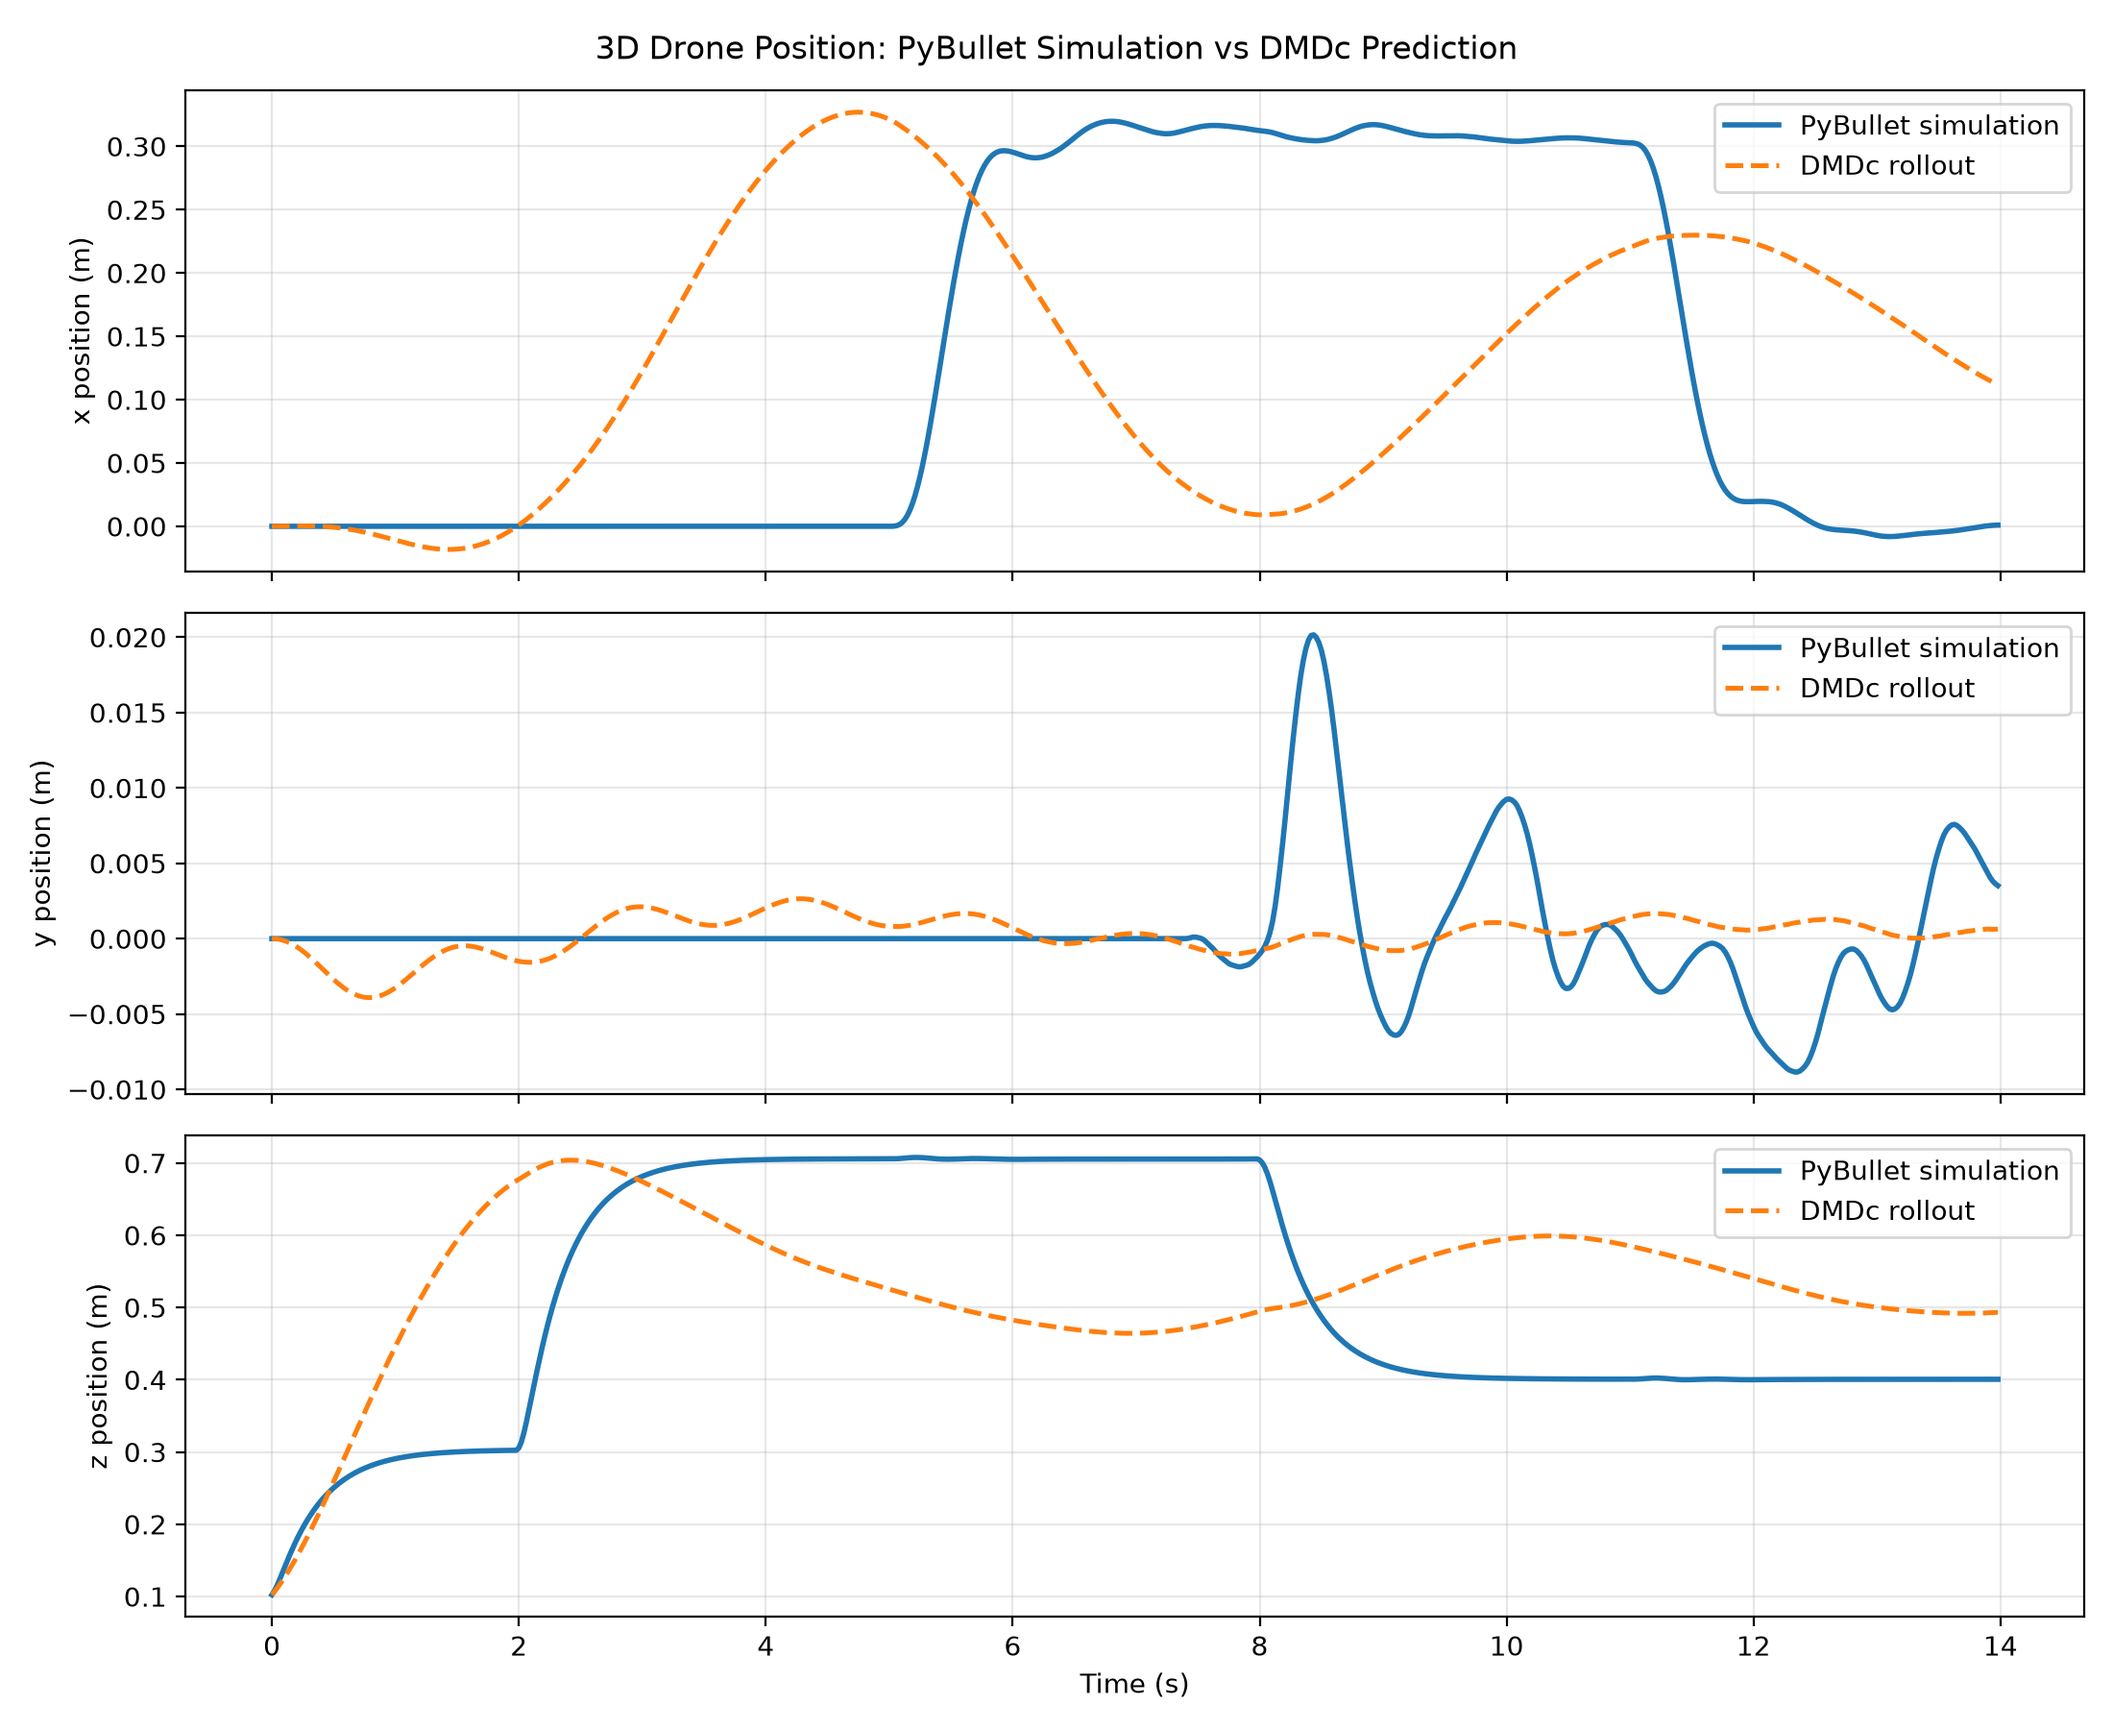
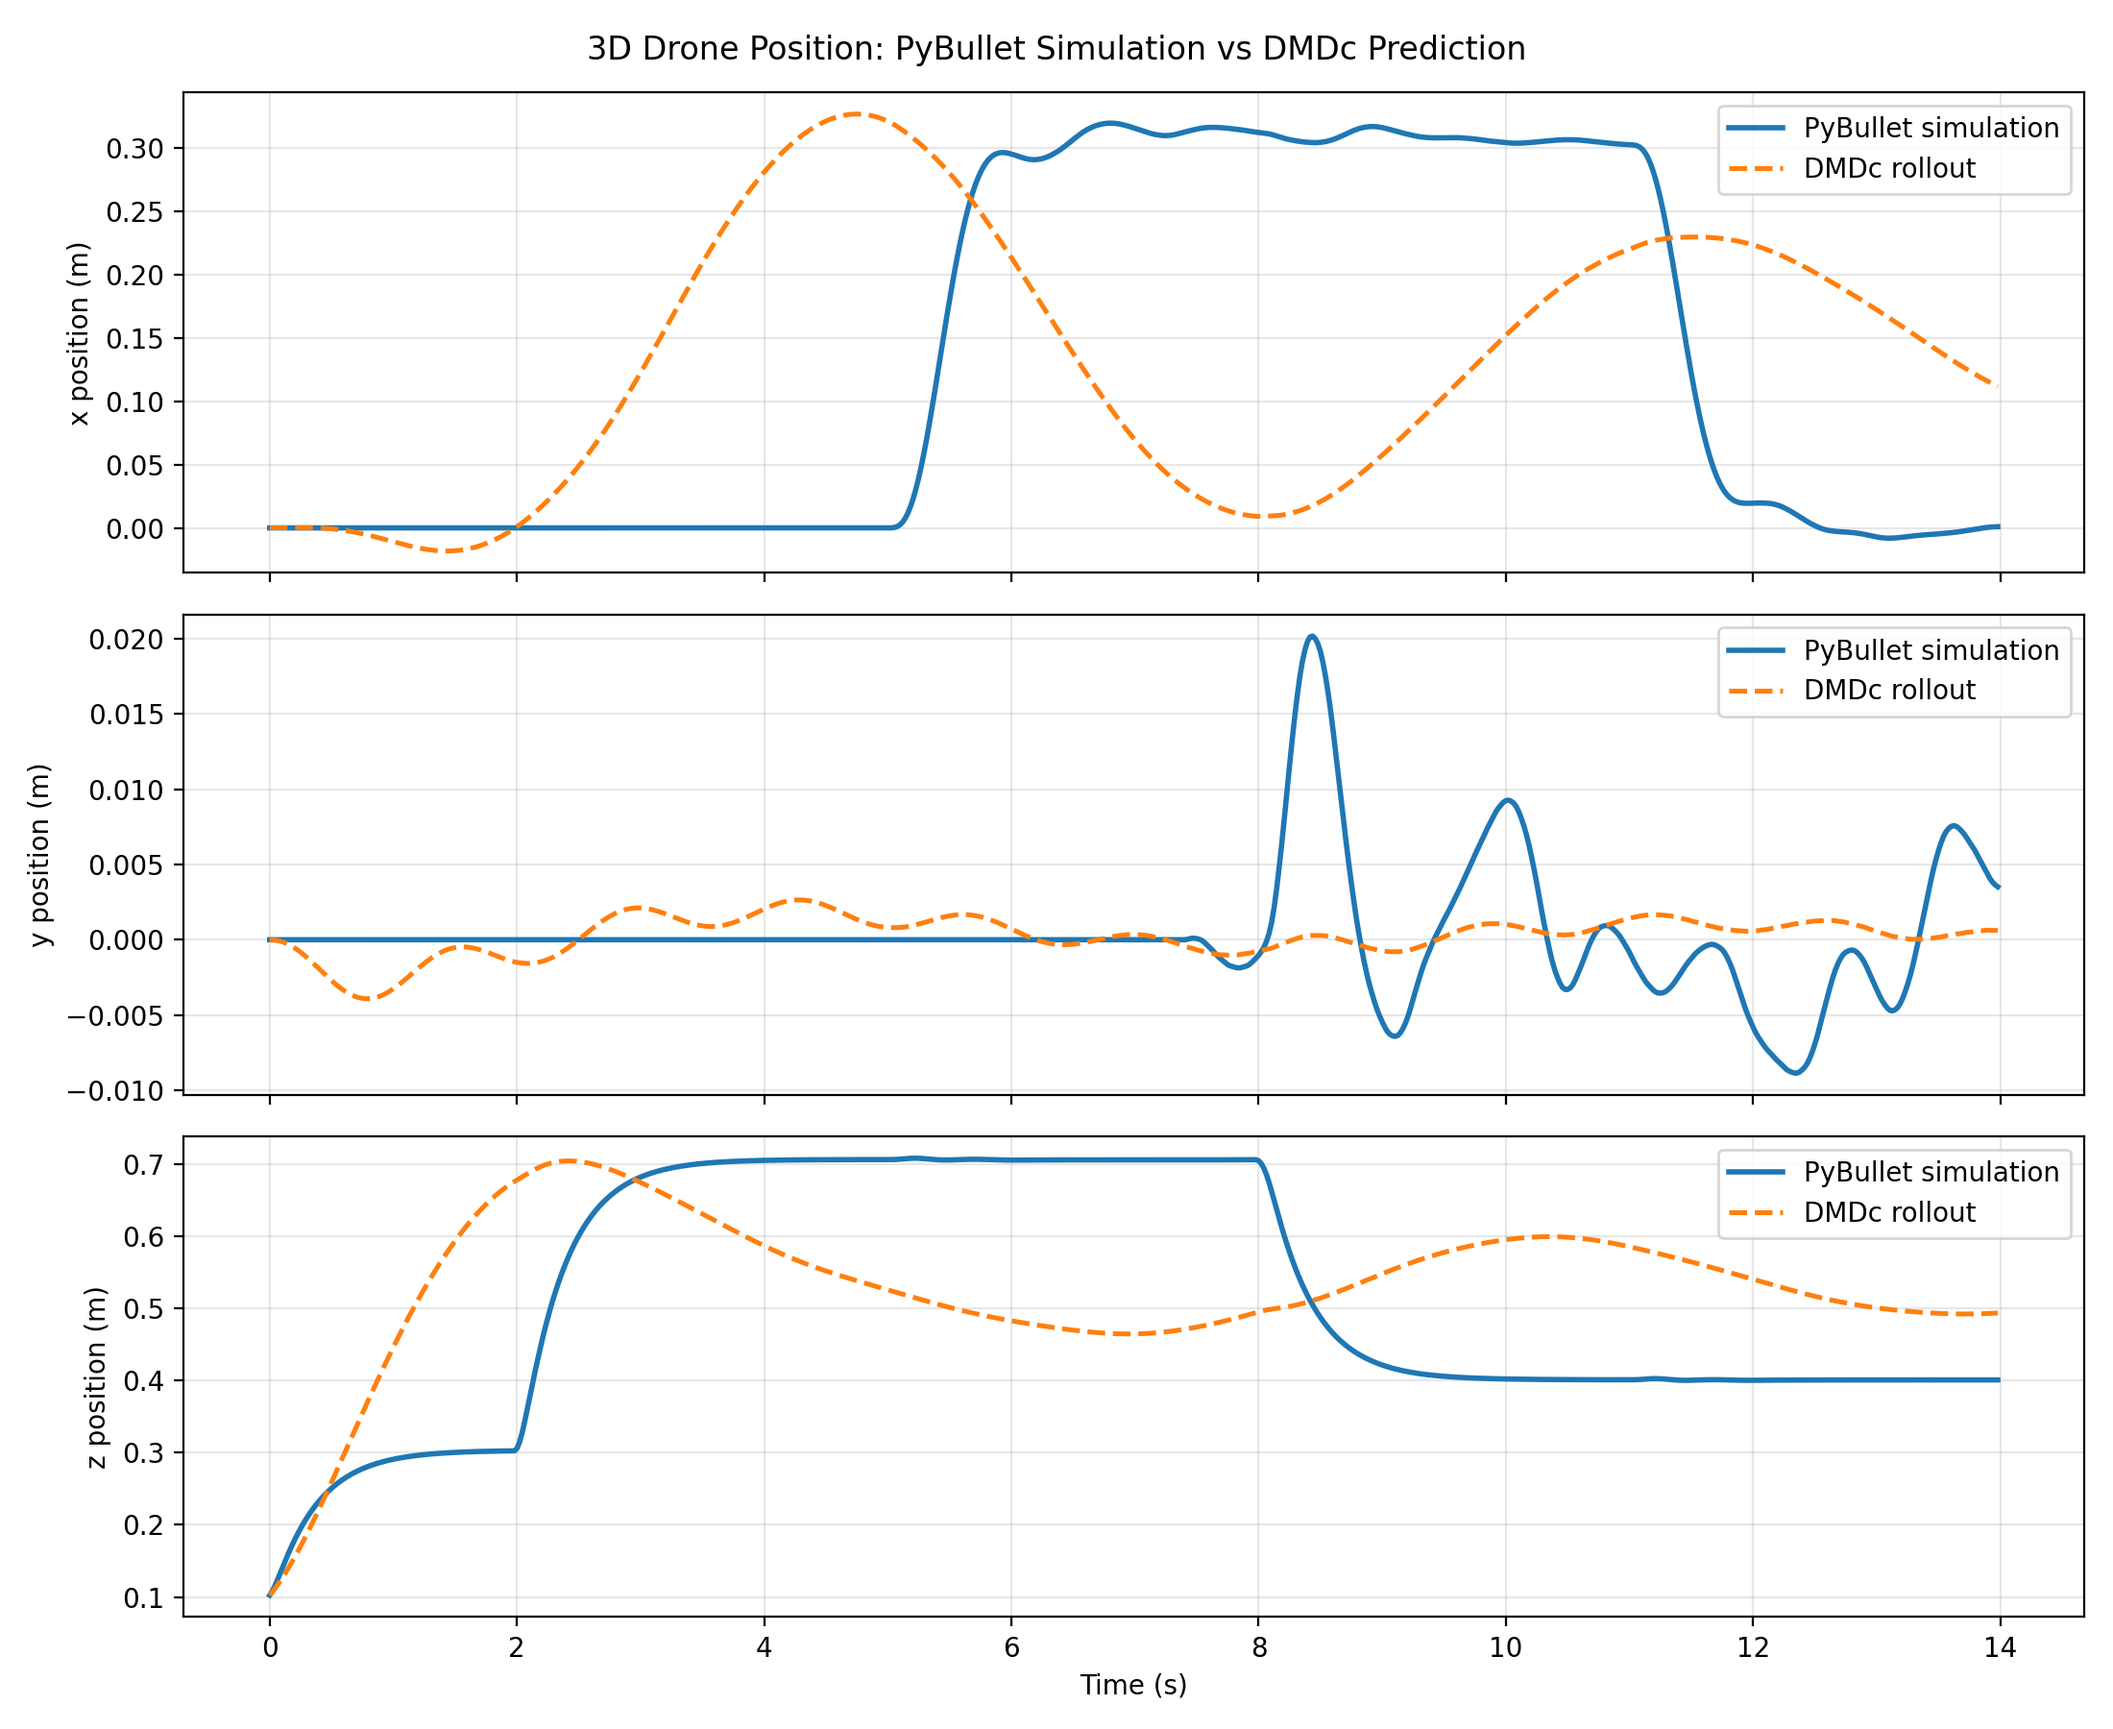
feat: add circular PID flight trajectory and update DMDc results

diff --git a/project/run_pid_dmdc.py b/project/run_pid_dmdc.py
@@ -10,28 +10,64 @@ from gym_pybullet_drones.utils.enums import DroneModel, Physics
 from gym_pybullet_drones.utils.utils import sync
 
 
-def reference_position(t):
-    """Creates deliberate position steps so motor inputs vary for DMDc."""
-    if t < 2.0:
-        return np.array([0.0, 0.0, 0.30])
-    elif t < 5.0:
-        return np.array([0.0, 0.0, 0.70])
-    elif t < 8.0:
-        return np.array([0.30, 0.0, 0.70])
-    elif t < 11.0:
-        return np.array([0.30, 0.0, 0.40])
+def reference_trajectory(t):
+    """
+    Generates a takeoff -> circular flight -> hover reference trajectory.
+
+    Returns:
+        target_pos : desired [x, y, z] position in metres
+        target_vel : desired [vx, vy, vz] velocity in m/s
+        target_rpy : desired [roll, pitch, yaw] attitude in radians
+    """
+    takeoff_end = 3.0
+    circle_end = 17.0
+
+    radius = 0.35
+    altitude = 0.70
+    omega = 0.35
+
+    if t < takeoff_end:
+        # Hold above the origin while the drone takes off and stabilizes.
+        target_pos = np.array([0.0, 0.0, altitude])
+        target_vel = np.zeros(3)
+        target_rpy = np.zeros(3)
+
+    elif t < circle_end:
+        # Time measured from the beginning of the circular segment.
+        circle_t = t - takeoff_end
+
+        target_pos = np.array([
+            radius * np.cos(omega * circle_t),
+            radius * np.sin(omega * circle_t),
+            altitude
+        ])
+
+        target_vel = np.array([
+            -radius * omega * np.sin(omega * circle_t),
+             radius * omega * np.cos(omega * circle_t),
+             0.0
+        ])
+
+        # Points the drone approximately along the tangent of the circle.
+        target_yaw = omega * circle_t + np.pi / 2.0
+        target_rpy = np.array([0.0, 0.0, target_yaw])
+
     else:
-        return np.array([0.0, 0.0, 0.40])
+        # End by returning to a stable hover at the circle centre.
+        target_pos = np.array([0.0, 0.0, altitude])
+        target_vel = np.zeros(3)
+        target_rpy = np.zeros(3)
+
+    return target_pos, target_vel, target_rpy
 
 
-def run(gui=True, duration=14.0, output_csv="data/pid_dmdc_log.csv"):
+def run(gui=True, duration=22.0, output_csv="data/pid_dmdc_log.csv"):
     os.makedirs("data", exist_ok=True)
 
     drone_model = DroneModel.CF2X
     physics = Physics.PYB
     sim_freq_hz = 240
     control_freq_hz = 48
-    aggregate = int(sim_freq_hz / control_freq_hz)
 
     env = CtrlAviary(
         drone_model=drone_model,
@@ -54,21 +90,24 @@ def run(gui=True, duration=14.0, output_csv="data/pid_dmdc_log.csv"):
     start = time.time()
     num_steps = int(duration * control_freq_hz)
 
-    print("Running single-drone PID experiment...")
+    print("Running PID-controlled circular-flight experiment...")
     print("Logging position, velocity, attitude, angular rate, and four motor RPM commands.")
 
     for i in range(num_steps):
-        t = i / control_freq_hz
+        t = i * env.CTRL_TIMESTEP
 
         state = obs[0]
-        target = reference_position(t)
+
+        target_pos, target_vel, target_rpy = reference_trajectory(t)
 
         rpm, _, _ = controller.computeControlFromState(
             control_timestep=env.CTRL_TIMESTEP,
             state=state,
-            target_pos=target,
-            target_rpy=np.zeros(3)
+            target_pos=target_pos,
+            target_rpy=target_rpy,
+            target_vel=target_vel
         )
+
         action[0, :] = rpm
 
         obs, reward, terminated, truncated, info = env.step(action)
@@ -76,22 +115,36 @@ def run(gui=True, duration=14.0, output_csv="data/pid_dmdc_log.csv"):
 
         rows.append({
             "time": t,
-            "target_x": target[0],
-            "target_y": target[1],
-            "target_z": target[2],
+
+            "target_x": target_pos[0],
+            "target_y": target_pos[1],
+            "target_z": target_pos[2],
+
+            "target_vx": target_vel[0],
+            "target_vy": target_vel[1],
+            "target_vz": target_vel[2],
+
+            "target_roll": target_rpy[0],
+            "target_pitch": target_rpy[1],
+            "target_yaw": target_rpy[2],
+
             "x": next_state[0],
             "y": next_state[1],
             "z": next_state[2],
+
             "qx": next_state[3],
             "qy": next_state[4],
             "qz": next_state[5],
             "qw": next_state[6],
+
             "vx": next_state[10],
             "vy": next_state[11],
             "vz": next_state[12],
+
             "wx": next_state[13],
             "wy": next_state[14],
             "wz": next_state[15],
+
             "rpm1": rpm[0],
             "rpm2": rpm[1],
             "rpm3": rpm[2],
@@ -109,6 +162,7 @@ def run(gui=True, duration=14.0, output_csv="data/pid_dmdc_log.csv"):
 
     df = pd.DataFrame(rows)
     df.to_csv(output_csv, index=False)
+
     print(f"Saved {len(df)} samples to: {output_csv}")
     print(df.head())
     print(df.describe())
@@ -117,7 +171,7 @@ def run(gui=True, duration=14.0, output_csv="data/pid_dmdc_log.csv"):
 if __name__ == "__main__":
     parser = argparse.ArgumentParser()
     parser.add_argument("--gui", action="store_true", help="Open PyBullet's 3D GUI")
-    parser.add_argument("--duration", type=float, default=14.0, help="Simulation duration in seconds")
+    parser.add_argument("--duration", type=float, default=22.0, help="Simulation duration in seconds")
     parser.add_argument("--output", type=str, default="data/pid_dmdc_log.csv", help="Output CSV path")
     args = parser.parse_args()
 
